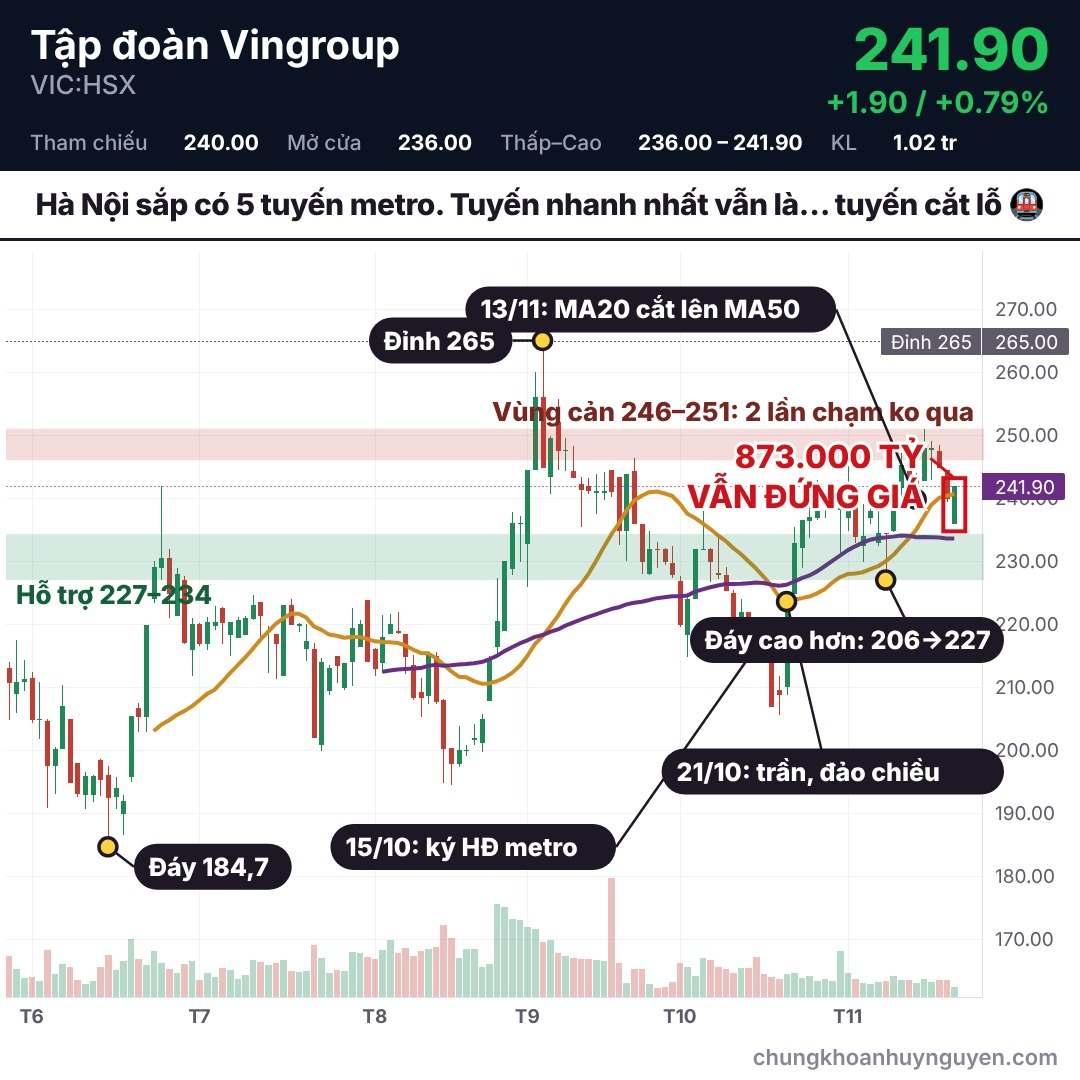
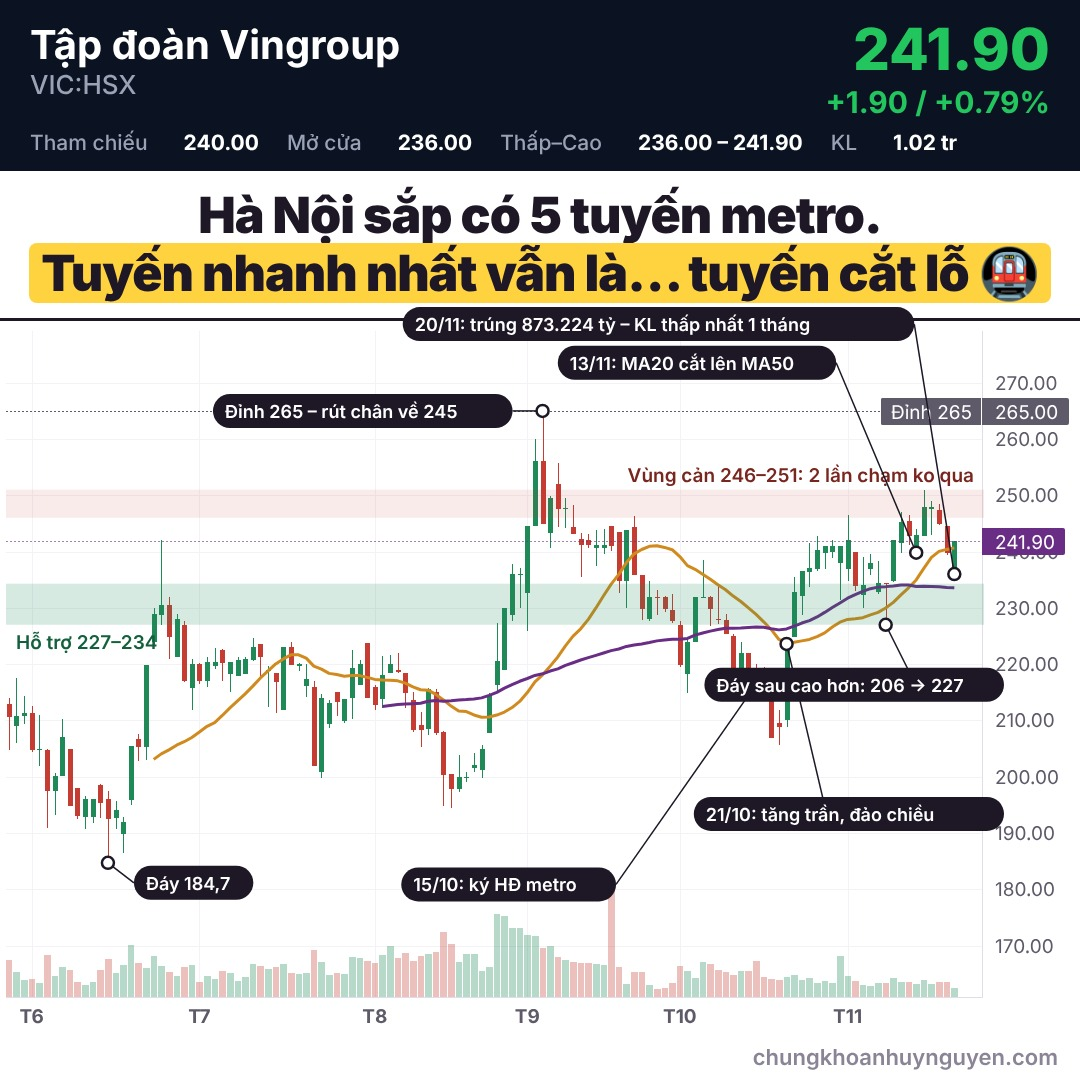
FB: hook VIC 2 dòng nổi bật, chart về cỡ cũ
Claude-Session: https://claude.ai/code/session_01HdwfrC464x83xNtDevUcBX

diff --git a/_fb/anh_lo/chart_web/VIC.html b/_fb/anh_lo/chart_web/VIC.html
@@ -6,7 +6,7 @@ body{margin:0;width:1080px;height:1080px;background:#fff;font-family:Inter,sans-
 .r1 b{font:700 40px Inter;display:block}.r1 span{font:500 26px Inter;color:#9aa3b5}
 .gp{text-align:right}.gp .g{font:800 58px/1 Inter}.gp .c{font:700 30px Inter;margin-top:6px}
 .st{display:flex;gap:28px;margin-top:10px;font:500 21px Inter;color:#9aa3b5}.st b{color:#fff;font-weight:700;margin-left:8px}
-.hook{background:#fff;border-bottom:3px solid #1d1726;padding:16px 22px;text-align:center;font:800 46px/1.18 Inter,'Noto Color Emoji';letter-spacing:-.5px}
+.hook{background:#fff;border-bottom:3px solid #1d1726;padding:16px 22px;text-align:center;font:900 60px/1.15 Inter,'Noto Color Emoji';letter-spacing:-1px}.hook span{background:#ffd23f;padding:0 12px;border-radius:8px;box-decoration-break:clone;-webkit-box-decoration-break:clone}
 #ch{position:absolute;left:6px;right:392px;top:VAR_TOP;bottom:40px}
 .lg{position:absolute;left:24px;top:calc(VAR_TOP + 8px);z-index:3;font:600 23px Inter;display:flex;gap:24px}
 #ov{position:absolute;left:0;top:0;width:1080px;height:1080px;z-index:4;pointer-events:none}
@@ -25,14 +25,14 @@ body{margin:0;width:1080px;height:1080px;background:#fff;font-family:Inter,sans-
 <div id="ch"></div><svg id="ov"></svg>
 <div class="br">chungkhoanhuynguyen.com</div>
 <script>
-var D={"ma": "VIC", "bars": [{"time": "2026-05-27", "open": 213.0, "high": 214.0, "low": 204.9, "close": 210.8, "volume": 4515900}, {"time": "2026-05-28", "open": 209.1, "high": 217.5, "low": 206.1, "close": 210.8, "volume": 3051200}, {"time": "2026-05-29", "open": 211.0, "high": 214.3, "low": 209.5, "close": 211.3, "volume": 2017000}, {"time": "2026-06-01", "open": 211.4, "high": 212.5, "low": 204.5, "close": 204.9, "volume": 2098200}, {"time": "2026-06-02", "open": 204.9, "high": 210.9, "low": 202.0, "close": 204.9, "volume": 1679300}, {"time": "2026-06-03", "open": 204.7, "high": 204.9, "low": 191.0, "close": 197.6, "volume": 5110300}, {"time": "2026-06-04", "open": 197.6, "high": 200.6, "low": 193.3, "close": 200.2, "volume": 2507200}, {"time": "2026-06-05", "open": 200.3, "high": 210.3, "low": 200.3, "close": 207.0, "volume": 3581100}, {"time": "2026-06-08", "open": 204.9, "high": 204.9, "low": 195.0, "close": 195.0, "volume": 3271900}, {"time": "2026-06-09", "open": 198.0, "high": 198.0, "low": 192.7, "close": 193.2, "volume": 1810400}, {"time": "2026-06-10", "open": 193.0, "high": 196.5, "low": 190.8, "close": 196.0, "volume": 1395000}, {"time": "2026-06-11", "open": 193.0, "high": 196.1, "low": 191.9, "close": 196.0, "volume": 1716200}, {"time": "2026-06-12", "open": 198.5, "high": 198.7, "low": 192.9, "close": 195.5, "volume": 3276100}, {"time": "2026-06-15", "open": 196.1, "high": 197.5, "low": 184.7, "close": 192.6, "volume": 4609900}, {"time": "2026-06-16", "open": 192.8, "high": 195.7, "low": 190.8, "close": 194.0, "volume": 2893300}, {"time": "2026-06-17", "open": 190.0, "high": 192.9, "low": 186.7, "close": 192.0, "volume": 3936100}, {"time": "2026-06-18", "open": 196.0, "high": 205.4, "low": 195.1, "close": 205.4, "volume": 6434200}, {"time": "2026-06-19", "open": 206.7, "high": 207.5, "low": 203.0, "close": 205.5, "volume": 4093100}, {"time": "2026-06-22", "open": 205.5, "high": 219.8, "low": 203.1, "close": 219.8, "volume": 3513400}, {"time": "2026-06-23", "open": 224.2, "high": 230.0, "low": 223.6, "close": 229.0, "volume": 5016500}, {"time": "2026-06-24", "open": 229.0, "high": 242.0, "low": 227.1, "close": 230.5, "volume": 3746800}, {"time": "2026-06-25", "open": 230.5, "high": 232.0, "low": 221.1, "close": 225.0, "volume": 3049700}, {"time": "2026-06-26", "open": 221.5, "high": 228.9, "low": 221.5, "close": 228.0, "volume": 2571200}, {"time": "2026-06-29", "open": 227.0, "high": 227.7, "low": 217.0, "close": 217.2, "volume": 3602500}, {"time": "2026-06-30", "open": 216.0, "high": 221.0, "low": 212.0, "close": 220.0, "volume": 3921200}, {"time": "2026-07-01", "open": 220.0, "high": 220.2, "low": 216.7, "close": 217.1, "volume": 1760600}, {"time": "2026-07-02", "open": 217.1, "high": 221.2, "low": 216.1, "close": 220.3, "volume": 2543800}, {"time": "2026-07-03", "open": 219.9, "high": 222.9, "low": 219.3, "close": 220.3, "volume": 2086300}, {"time": "2026-07-06", "open": 222.5, "high": 222.7, "low": 217.1, "close": 220.3, "volume": 3093000}, {"time": "2026-07-07", "open": 218.5, "high": 220.3, "low": 215.2, "close": 220.3, "volume": 2948800}, {"time": "2026-07-08", "open": 218.0, "high": 221.2, "low": 218.0, "close": 220.7, "volume": 1934000}, {"time": "2026-07-09", "open": 218.5, "high": 221.3, "low": 218.5, "close": 221.0, "volume": 2366400}, {"time": "2026-07-10", "open": 221.0, "high": 224.7, "low": 220.8, "close": 223.0, "volume": 3999100}, {"time": "2026-07-13", "open": 223.6, "high": 223.6, "low": 218.1, "close": 221.5, "volume": 3795000}, {"time": "2026-07-14", "open": 219.0, "high": 219.7, "low": 212.5, "close": 219.0, "volume": 3450700}, {"time": "2026-07-15", "open": 218.4, "high": 218.4, "low": 211.5, "close": 217.0, "volume": 3697900}, {"time": "2026-07-16", "open": 212.0, "high": 223.0, "low": 212.0, "close": 223.0, "volume": 4074700}, {"time": "2026-07-17", "open": 223.0, "high": 224.0, "low": 220.0, "close": 220.0, "volume": 2845200}, {"time": "2026-07-20", "open": 219.9, "high": 220.2, "low": 218.9, "close": 220.0, "volume": 2732800}, {"time": "2026-07-21", "open": 216.3, "high": 220.0, "low": 214.4, "close": 217.3, "volume": 2839700}, {"time": "2026-07-22", "open": 216.0, "high": 217.0, "low": 202.1, "close": 202.1, "volume": 5736200}, {"time": "2026-07-23", "open": 201.0, "high": 214.7, "low": 200.0, "close": 214.0, "volume": 4235400}, {"time": "2026-07-24", "open": 209.5, "high": 213.6, "low": 208.9, "close": 213.1, "volume": 2599400}, {"time": "2026-07-27", "open": 215.0, "high": 215.0, "low": 210.9, "close": 213.5, "volume": 2911700}, {"time": "2026-07-28", "open": 210.0, "high": 213.8, "low": 209.7, "close": 213.8, "volume": 2751800}, {"time": "2026-07-29", "open": 214.1, "high": 222.5, "low": 210.4, "close": 219.4, "volume": 4951600}, {"time": "2026-07-30", "open": 216.5, "high": 220.7, "low": 216.5, "close": 220.0, "volume": 4809100}, {"time": "2026-07-31", "open": 223.8, "high": 223.8, "low": 214.1, "close": 214.1, "volume": 4372800}, {"time": "2026-08-03", "open": 216.0, "high": 216.3, "low": 212.0, "close": 213.0, "volume": 4179900}, {"time": "2026-08-04", "open": 214.0, "high": 221.5, "low": 212.4, "close": 218.0, "volume": 5187600}, {"time": "2026-08-05", "open": 218.6, "high": 221.6, "low": 218.6, "close": 220.0, "volume": 6228400}, {"time": "2026-08-06", "open": 219.0, "high": 222.0, "low": 218.6, "close": 218.8, "volume": 4794300}, {"time": "2026-08-07", "open": 218.4, "high": 218.4, "low": 212.3, "close": 215.0, "volume": 5350500}, {"time": "2026-08-10", "open": 213.6, "high": 215.1, "low": 208.1, "close": 208.5, "volume": 4429400}, {"time": "2026-08-11", "open": 209.2, "high": 211.5, "low": 205.5, "close": 208.5, "volume": 4993200}, {"time": "2026-08-12", "open": 208.7, "high": 215.8, "low": 207.5, "close": 215.5, "volume": 5299800}, {"time": "2026-08-13", "open": 215.0, "high": 215.6, "low": 207.5, "close": 207.9, "volume": 5537700}, {"time": "2026-08-14", "open": 208.0, "high": 208.1, "low": 195.0, "close": 200.4, "volume": 7976400}, {"time": "2026-08-17", "open": 200.4, "high": 200.4, "low": 194.6, "close": 198.0, "volume": 6484400}, {"time": "2026-08-18", "open": 198.0, "high": 203.9, "low": 197.5, "close": 200.0, "volume": 4301900}, {"time": "2026-08-19", "open": 200.0, "high": 200.9, "low": 199.2, "close": 200.0, "volume": 5248400}, {"time": "2026-08-20", "open": 201.8, "high": 204.2, "low": 201.0, "close": 202.0, "volume": 5246400}, {"time": "2026-08-21", "open": 201.4, "high": 205.7, "low": 199.9, "close": 205.0, "volume": 3196900}, {"time": "2026-08-24", "open": 208.0, "high": 214.9, "low": 208.0, "close": 214.5, "volume": 3586200}, {"time": "2026-08-25", "open": 216.5, "high": 227.3, "low": 215.3, "close": 220.5, "volume": 10310200}, {"time": "2026-08-26", "open": 219.1, "high": 230.0, "low": 219.1, "close": 230.0, "volume": 9982600}, {"time": "2026-08-27", "open": 228.9, "high": 237.8, "low": 227.9, "close": 236.0, "volume": 8567700}, {"time": "2026-08-28", "open": 236.0, "high": 237.1, "low": 230.1, "close": 236.0, "volume": 8553100}, {"time": "2026-09-03", "open": 232.9, "high": 244.5, "low": 226.0, "close": 244.5, "volume": 7676800}, {"time": "2026-09-04", "open": 244.7, "high": 260.0, "low": 244.7, "close": 256.1, "volume": 7518600}, {"time": "2026-09-07", "open": 256.1, "high": 265.0, "low": 245.0, "close": 245.0, "volume": 6063900}, {"time": "2026-09-08", "open": 243.5, "high": 249.8, "low": 240.8, "close": 249.6, "volume": 6268500}, {"time": "2026-09-09", "open": 252.0, "high": 255.8, "low": 244.6, "close": 247.7, "volume": 4857800}, {"time": "2026-09-10", "open": 247.7, "high": 249.5, "low": 244.4, "close": 247.7, "volume": 4481800}, {"time": "2026-09-11", "open": 244.3, "high": 248.3, "low": 243.3, "close": 243.3, "volume": 4264000}, {"time": "2026-09-14", "open": 242.3, "high": 243.3, "low": 235.6, "close": 241.4, "volume": 4144700}, {"time": "2026-09-15", "open": 242.0, "high": 243.2, "low": 240.8, "close": 241.3, "volume": 4196100}, {"time": "2026-09-16", "open": 240.9, "high": 243.8, "low": 237.6, "close": 241.2, "volume": 4014000}, {"time": "2026-09-17", "open": 240.9, "high": 244.1, "low": 239.8, "close": 241.2, "volume": 3951500}, {"time": "2026-09-18", "open": 244.5, "high": 244.5, "low": 240.3, "close": 241.2, "volume": 13251500}, {"time": "2026-09-21", "open": 243.4, "high": 243.4, "low": 232.8, "close": 235.0, "volume": 3685300}, {"time": "2026-09-22", "open": 235.0, "high": 243.8, "low": 230.2, "close": 243.8, "volume": 1493400}, {"time": "2026-09-23", "open": 244.3, "high": 246.4, "low": 236.0, "close": 236.0, "volume": 3054200}, {"time": "2026-09-24", "open": 235.9, "high": 235.9, "low": 228.1, "close": 230.0, "volume": 2995500}, {"time": "2026-09-25", "open": 228.2, "high": 234.8, "low": 227.9, "close": 232.0, "volume": 1360800}, {"time": "2026-09-28", "open": 232.0, "high": 233.1, "low": 229.0, "close": 231.9, "volume": 891800}, {"time": "2026-09-29", "open": 232.0, "high": 232.1, "low": 229.5, "close": 230.0, "volume": 1056500}, {"time": "2026-09-30", "open": 229.7, "high": 232.4, "low": 227.5, "close": 227.9, "volume": 1584300}, {"time": "2026-10-01", "open": 226.9, "high": 227.7, "low": 219.7, "close": 220.0, "volume": 3716400}, {"time": "2026-10-02", "open": 218.5, "high": 224.9, "low": 215.0, "close": 224.0, "volume": 3199100}, {"time": "2026-10-05", "open": 224.1, "high": 232.0, "low": 224.1, "close": 232.0, "volume": 2293600}, {"time": "2026-10-06", "open": 232.0, "high": 238.5, "low": 231.9, "close": 232.0, "volume": 4217500}, {"time": "2026-10-07", "open": 232.0, "high": 232.1, "low": 226.9, "close": 230.0, "volume": 3995000}, {"time": "2026-10-08", "open": 228.1, "high": 234.0, "low": 227.3, "close": 228.0, "volume": 3302100}, {"time": "2026-10-09", "open": 227.8, "high": 229.0, "low": 225.5, "close": 225.5, "volume": 3042800}, {"time": "2026-10-12", "open": 225.0, "high": 225.4, "low": 218.6, "close": 219.0, "volume": 2630100}, {"time": "2026-10-13", "open": 218.0, "high": 224.0, "low": 215.3, "close": 222.0, "volume": 3133800}, {"time": "2026-10-14", "open": 222.0, "high": 222.0, "low": 217.3, "close": 218.4, "volume": 3116100}, {"time": "2026-10-15", "open": 218.4, "high": 220.0, "low": 216.4, "close": 218.0, "volume": 4348600}, {"time": "2026-10-16", "open": 218.3, "high": 219.5, "low": 214.5, "close": 215.0, "volume": 2419600}, {"time": "2026-10-19", "open": 219.0, "high": 219.0, "low": 207.0, "close": 207.0, "volume": 2096600}, {"time": "2026-10-20", "open": 209.6, "high": 211.8, "low": 205.8, "close": 209.0, "volume": 1952800}, {"time": "2026-10-21", "open": 210.2, "high": 223.6, "low": 209.0, "close": 223.6, "volume": 2434200}, {"time": "2026-10-22", "open": 225.0, "high": 235.5, "low": 225.0, "close": 232.9, "volume": 2592200}, {"time": "2026-10-23", "open": 232.3, "high": 236.5, "low": 229.0, "close": 236.5, "volume": 2020600}, {"time": "2026-10-26", "open": 236.5, "high": 241.5, "low": 233.9, "close": 237.0, "volume": 2218600}, {"time": "2026-10-27", "open": 237.0, "high": 242.8, "low": 236.7, "close": 240.2, "volume": 1676600}, {"time": "2026-10-28", "open": 239.9, "high": 241.0, "low": 237.0, "close": 241.0, "volume": 1868200}, {"time": "2026-10-29", "open": 240.1, "high": 242.0, "low": 239.0, "close": 241.0, "volume": 1680700}, {"time": "2026-10-30", "open": 238.2, "high": 241.0, "low": 231.5, "close": 241.0, "volume": 5049400}, {"time": "2026-11-02", "open": 237.0, "high": 246.5, "low": 235.0, "close": 242.0, "volume": 2527100}, {"time": "2026-11-03", "open": 240.0, "high": 240.0, "low": 233.1, "close": 234.0, "volume": 1909000}, {"time": "2026-11-04", "open": 232.5, "high": 239.0, "low": 230.1, "close": 234.0, "volume": 1431900}, {"time": "2026-11-05", "open": 237.0, "high": 239.5, "low": 236.0, "close": 238.0, "volume": 1305100}, {"time": "2026-11-06", "open": 233.0, "high": 238.4, "low": 232.6, "close": 234.5, "volume": 1570600}, {"time": "2026-11-09", "open": 234.5, "high": 234.5, "low": 227.0, "close": 234.4, "volume": 1644700}, {"time": "2026-11-10", "open": 235.0, "high": 242.0, "low": 234.8, "close": 242.0, "volume": 2218600}, {"time": "2026-11-11", "open": 241.7, "high": 247.1, "low": 240.0, "close": 245.2, "volume": 1749100}, {"time": "2026-11-12", "open": 245.5, "high": 246.5, "low": 241.3, "close": 243.0, "volume": 1790500}, {"time": "2026-11-13", "open": 240.1, "high": 244.0, "low": 239.8, "close": 243.0, "volume": 1487700}, {"time": "2026-11-16", "open": 242.9, "high": 251.0, "low": 242.9, "close": 248.0, "volume": 1949000}, {"time": "2026-11-17", "open": 247.8, "high": 249.0, "low": 243.1, "close": 248.0, "volume": 1550600}, {"time": "2026-11-18", "open": 247.4, "high": 248.5, "low": 244.9, "close": 245.0, "volume": 1799100}, {"time": "2026-11-19", "open": 244.5, "high": 244.5, "low": 239.5, "close": 240.0, "volume": 1778600}, {"time": "2026-11-20", "open": 236.0, "high": 241.9, "low": 236.0, "close": 241.9, "volume": 1015400}], "gia": 241.9, "ch": 1.9, "pct": 0.7916666666666665, "ten": "Tập đoàn Vingroup", "hook": "Hà Nội sắp có 5 tuyến metro. Tuyến nhanh nhất vẫn là… tuyến cắt lỗ 🚇", "muc": [{"gia": 265, "ten": "Đỉnh 265"}], "vung": [{"tren": 251, "duoi": 246, "ten": "Vùng cản 246–251: 2 lần chạm ko qua"}, {"tren": 234.3, "duoi": 227, "ten": "Hỗ trợ 227–234", "mau": "rgba(31,138,87,.18)", "mauChu": "#14603c", "trai": 1}], "fib": null, "emo": null, "diem": [{"t": "2026-06-15", "g": 184.7, "dx": 26, "dy": 20, "chu": "Đáy 184,7"}, {"t": "2026-09-07", "g": 265, "dx": -30, "dy": 0, "chu": "Đỉnh 265"}, {"t": "2026-10-15", "g": 216.4, "dx": -140, "dy": 200, "chu": "15/10: ký HĐ metro"}, {"t": "2026-10-21", "g": 223.6, "dx": 40, "dy": 170, "chu": "21/10: trần, đảo chiều"}, {"t": "2026-11-09", "g": 227, "dx": 30, "dy": 60, "chu": "Đáy cao hơn: 206→227"}, {"t": "2026-11-13", "g": 239.8, "dx": -80, "dy": -190, "chu": "13/11: MA20 cắt lên MA50"}], "pn": null, "kq": null, "hop": [{"t": "2026-11-20", "dx": -30, "dy": -20, "chu": ["873.000 TỶ", "VẪN ĐỨNG GIÁ"]}]};var UP='#1f8a57',DN='#c43c32';
+var D={"ma": "VIC", "bars": [{"time": "2026-05-27", "open": 213.0, "high": 214.0, "low": 204.9, "close": 210.8, "volume": 4515900}, {"time": "2026-05-28", "open": 209.1, "high": 217.5, "low": 206.1, "close": 210.8, "volume": 3051200}, {"time": "2026-05-29", "open": 211.0, "high": 214.3, "low": 209.5, "close": 211.3, "volume": 2017000}, {"time": "2026-06-01", "open": 211.4, "high": 212.5, "low": 204.5, "close": 204.9, "volume": 2098200}, {"time": "2026-06-02", "open": 204.9, "high": 210.9, "low": 202.0, "close": 204.9, "volume": 1679300}, {"time": "2026-06-03", "open": 204.7, "high": 204.9, "low": 191.0, "close": 197.6, "volume": 5110300}, {"time": "2026-06-04", "open": 197.6, "high": 200.6, "low": 193.3, "close": 200.2, "volume": 2507200}, {"time": "2026-06-05", "open": 200.3, "high": 210.3, "low": 200.3, "close": 207.0, "volume": 3581100}, {"time": "2026-06-08", "open": 204.9, "high": 204.9, "low": 195.0, "close": 195.0, "volume": 3271900}, {"time": "2026-06-09", "open": 198.0, "high": 198.0, "low": 192.7, "close": 193.2, "volume": 1810400}, {"time": "2026-06-10", "open": 193.0, "high": 196.5, "low": 190.8, "close": 196.0, "volume": 1395000}, {"time": "2026-06-11", "open": 193.0, "high": 196.1, "low": 191.9, "close": 196.0, "volume": 1716200}, {"time": "2026-06-12", "open": 198.5, "high": 198.7, "low": 192.9, "close": 195.5, "volume": 3276100}, {"time": "2026-06-15", "open": 196.1, "high": 197.5, "low": 184.7, "close": 192.6, "volume": 4609900}, {"time": "2026-06-16", "open": 192.8, "high": 195.7, "low": 190.8, "close": 194.0, "volume": 2893300}, {"time": "2026-06-17", "open": 190.0, "high": 192.9, "low": 186.7, "close": 192.0, "volume": 3936100}, {"time": "2026-06-18", "open": 196.0, "high": 205.4, "low": 195.1, "close": 205.4, "volume": 6434200}, {"time": "2026-06-19", "open": 206.7, "high": 207.5, "low": 203.0, "close": 205.5, "volume": 4093100}, {"time": "2026-06-22", "open": 205.5, "high": 219.8, "low": 203.1, "close": 219.8, "volume": 3513400}, {"time": "2026-06-23", "open": 224.2, "high": 230.0, "low": 223.6, "close": 229.0, "volume": 5016500}, {"time": "2026-06-24", "open": 229.0, "high": 242.0, "low": 227.1, "close": 230.5, "volume": 3746800}, {"time": "2026-06-25", "open": 230.5, "high": 232.0, "low": 221.1, "close": 225.0, "volume": 3049700}, {"time": "2026-06-26", "open": 221.5, "high": 228.9, "low": 221.5, "close": 228.0, "volume": 2571200}, {"time": "2026-06-29", "open": 227.0, "high": 227.7, "low": 217.0, "close": 217.2, "volume": 3602500}, {"time": "2026-06-30", "open": 216.0, "high": 221.0, "low": 212.0, "close": 220.0, "volume": 3921200}, {"time": "2026-07-01", "open": 220.0, "high": 220.2, "low": 216.7, "close": 217.1, "volume": 1760600}, {"time": "2026-07-02", "open": 217.1, "high": 221.2, "low": 216.1, "close": 220.3, "volume": 2543800}, {"time": "2026-07-03", "open": 219.9, "high": 222.9, "low": 219.3, "close": 220.3, "volume": 2086300}, {"time": "2026-07-06", "open": 222.5, "high": 222.7, "low": 217.1, "close": 220.3, "volume": 3093000}, {"time": "2026-07-07", "open": 218.5, "high": 220.3, "low": 215.2, "close": 220.3, "volume": 2948800}, {"time": "2026-07-08", "open": 218.0, "high": 221.2, "low": 218.0, "close": 220.7, "volume": 1934000}, {"time": "2026-07-09", "open": 218.5, "high": 221.3, "low": 218.5, "close": 221.0, "volume": 2366400}, {"time": "2026-07-10", "open": 221.0, "high": 224.7, "low": 220.8, "close": 223.0, "volume": 3999100}, {"time": "2026-07-13", "open": 223.6, "high": 223.6, "low": 218.1, "close": 221.5, "volume": 3795000}, {"time": "2026-07-14", "open": 219.0, "high": 219.7, "low": 212.5, "close": 219.0, "volume": 3450700}, {"time": "2026-07-15", "open": 218.4, "high": 218.4, "low": 211.5, "close": 217.0, "volume": 3697900}, {"time": "2026-07-16", "open": 212.0, "high": 223.0, "low": 212.0, "close": 223.0, "volume": 4074700}, {"time": "2026-07-17", "open": 223.0, "high": 224.0, "low": 220.0, "close": 220.0, "volume": 2845200}, {"time": "2026-07-20", "open": 219.9, "high": 220.2, "low": 218.9, "close": 220.0, "volume": 2732800}, {"time": "2026-07-21", "open": 216.3, "high": 220.0, "low": 214.4, "close": 217.3, "volume": 2839700}, {"time": "2026-07-22", "open": 216.0, "high": 217.0, "low": 202.1, "close": 202.1, "volume": 5736200}, {"time": "2026-07-23", "open": 201.0, "high": 214.7, "low": 200.0, "close": 214.0, "volume": 4235400}, {"time": "2026-07-24", "open": 209.5, "high": 213.6, "low": 208.9, "close": 213.1, "volume": 2599400}, {"time": "2026-07-27", "open": 215.0, "high": 215.0, "low": 210.9, "close": 213.5, "volume": 2911700}, {"time": "2026-07-28", "open": 210.0, "high": 213.8, "low": 209.7, "close": 213.8, "volume": 2751800}, {"time": "2026-07-29", "open": 214.1, "high": 222.5, "low": 210.4, "close": 219.4, "volume": 4951600}, {"time": "2026-07-30", "open": 216.5, "high": 220.7, "low": 216.5, "close": 220.0, "volume": 4809100}, {"time": "2026-07-31", "open": 223.8, "high": 223.8, "low": 214.1, "close": 214.1, "volume": 4372800}, {"time": "2026-08-03", "open": 216.0, "high": 216.3, "low": 212.0, "close": 213.0, "volume": 4179900}, {"time": "2026-08-04", "open": 214.0, "high": 221.5, "low": 212.4, "close": 218.0, "volume": 5187600}, {"time": "2026-08-05", "open": 218.6, "high": 221.6, "low": 218.6, "close": 220.0, "volume": 6228400}, {"time": "2026-08-06", "open": 219.0, "high": 222.0, "low": 218.6, "close": 218.8, "volume": 4794300}, {"time": "2026-08-07", "open": 218.4, "high": 218.4, "low": 212.3, "close": 215.0, "volume": 5350500}, {"time": "2026-08-10", "open": 213.6, "high": 215.1, "low": 208.1, "close": 208.5, "volume": 4429400}, {"time": "2026-08-11", "open": 209.2, "high": 211.5, "low": 205.5, "close": 208.5, "volume": 4993200}, {"time": "2026-08-12", "open": 208.7, "high": 215.8, "low": 207.5, "close": 215.5, "volume": 5299800}, {"time": "2026-08-13", "open": 215.0, "high": 215.6, "low": 207.5, "close": 207.9, "volume": 5537700}, {"time": "2026-08-14", "open": 208.0, "high": 208.1, "low": 195.0, "close": 200.4, "volume": 7976400}, {"time": "2026-08-17", "open": 200.4, "high": 200.4, "low": 194.6, "close": 198.0, "volume": 6484400}, {"time": "2026-08-18", "open": 198.0, "high": 203.9, "low": 197.5, "close": 200.0, "volume": 4301900}, {"time": "2026-08-19", "open": 200.0, "high": 200.9, "low": 199.2, "close": 200.0, "volume": 5248400}, {"time": "2026-08-20", "open": 201.8, "high": 204.2, "low": 201.0, "close": 202.0, "volume": 5246400}, {"time": "2026-08-21", "open": 201.4, "high": 205.7, "low": 199.9, "close": 205.0, "volume": 3196900}, {"time": "2026-08-24", "open": 208.0, "high": 214.9, "low": 208.0, "close": 214.5, "volume": 3586200}, {"time": "2026-08-25", "open": 216.5, "high": 227.3, "low": 215.3, "close": 220.5, "volume": 10310200}, {"time": "2026-08-26", "open": 219.1, "high": 230.0, "low": 219.1, "close": 230.0, "volume": 9982600}, {"time": "2026-08-27", "open": 228.9, "high": 237.8, "low": 227.9, "close": 236.0, "volume": 8567700}, {"time": "2026-08-28", "open": 236.0, "high": 237.1, "low": 230.1, "close": 236.0, "volume": 8553100}, {"time": "2026-09-03", "open": 232.9, "high": 244.5, "low": 226.0, "close": 244.5, "volume": 7676800}, {"time": "2026-09-04", "open": 244.7, "high": 260.0, "low": 244.7, "close": 256.1, "volume": 7518600}, {"time": "2026-09-07", "open": 256.1, "high": 265.0, "low": 245.0, "close": 245.0, "volume": 6063900}, {"time": "2026-09-08", "open": 243.5, "high": 249.8, "low": 240.8, "close": 249.6, "volume": 6268500}, {"time": "2026-09-09", "open": 252.0, "high": 255.8, "low": 244.6, "close": 247.7, "volume": 4857800}, {"time": "2026-09-10", "open": 247.7, "high": 249.5, "low": 244.4, "close": 247.7, "volume": 4481800}, {"time": "2026-09-11", "open": 244.3, "high": 248.3, "low": 243.3, "close": 243.3, "volume": 4264000}, {"time": "2026-09-14", "open": 242.3, "high": 243.3, "low": 235.6, "close": 241.4, "volume": 4144700}, {"time": "2026-09-15", "open": 242.0, "high": 243.2, "low": 240.8, "close": 241.3, "volume": 4196100}, {"time": "2026-09-16", "open": 240.9, "high": 243.8, "low": 237.6, "close": 241.2, "volume": 4014000}, {"time": "2026-09-17", "open": 240.9, "high": 244.1, "low": 239.8, "close": 241.2, "volume": 3951500}, {"time": "2026-09-18", "open": 244.5, "high": 244.5, "low": 240.3, "close": 241.2, "volume": 13251500}, {"time": "2026-09-21", "open": 243.4, "high": 243.4, "low": 232.8, "close": 235.0, "volume": 3685300}, {"time": "2026-09-22", "open": 235.0, "high": 243.8, "low": 230.2, "close": 243.8, "volume": 1493400}, {"time": "2026-09-23", "open": 244.3, "high": 246.4, "low": 236.0, "close": 236.0, "volume": 3054200}, {"time": "2026-09-24", "open": 235.9, "high": 235.9, "low": 228.1, "close": 230.0, "volume": 2995500}, {"time": "2026-09-25", "open": 228.2, "high": 234.8, "low": 227.9, "close": 232.0, "volume": 1360800}, {"time": "2026-09-28", "open": 232.0, "high": 233.1, "low": 229.0, "close": 231.9, "volume": 891800}, {"time": "2026-09-29", "open": 232.0, "high": 232.1, "low": 229.5, "close": 230.0, "volume": 1056500}, {"time": "2026-09-30", "open": 229.7, "high": 232.4, "low": 227.5, "close": 227.9, "volume": 1584300}, {"time": "2026-10-01", "open": 226.9, "high": 227.7, "low": 219.7, "close": 220.0, "volume": 3716400}, {"time": "2026-10-02", "open": 218.5, "high": 224.9, "low": 215.0, "close": 224.0, "volume": 3199100}, {"time": "2026-10-05", "open": 224.1, "high": 232.0, "low": 224.1, "close": 232.0, "volume": 2293600}, {"time": "2026-10-06", "open": 232.0, "high": 238.5, "low": 231.9, "close": 232.0, "volume": 4217500}, {"time": "2026-10-07", "open": 232.0, "high": 232.1, "low": 226.9, "close": 230.0, "volume": 3995000}, {"time": "2026-10-08", "open": 228.1, "high": 234.0, "low": 227.3, "close": 228.0, "volume": 3302100}, {"time": "2026-10-09", "open": 227.8, "high": 229.0, "low": 225.5, "close": 225.5, "volume": 3042800}, {"time": "2026-10-12", "open": 225.0, "high": 225.4, "low": 218.6, "close": 219.0, "volume": 2630100}, {"time": "2026-10-13", "open": 218.0, "high": 224.0, "low": 215.3, "close": 222.0, "volume": 3133800}, {"time": "2026-10-14", "open": 222.0, "high": 222.0, "low": 217.3, "close": 218.4, "volume": 3116100}, {"time": "2026-10-15", "open": 218.4, "high": 220.0, "low": 216.4, "close": 218.0, "volume": 4348600}, {"time": "2026-10-16", "open": 218.3, "high": 219.5, "low": 214.5, "close": 215.0, "volume": 2419600}, {"time": "2026-10-19", "open": 219.0, "high": 219.0, "low": 207.0, "close": 207.0, "volume": 2096600}, {"time": "2026-10-20", "open": 209.6, "high": 211.8, "low": 205.8, "close": 209.0, "volume": 1952800}, {"time": "2026-10-21", "open": 210.2, "high": 223.6, "low": 209.0, "close": 223.6, "volume": 2434200}, {"time": "2026-10-22", "open": 225.0, "high": 235.5, "low": 225.0, "close": 232.9, "volume": 2592200}, {"time": "2026-10-23", "open": 232.3, "high": 236.5, "low": 229.0, "close": 236.5, "volume": 2020600}, {"time": "2026-10-26", "open": 236.5, "high": 241.5, "low": 233.9, "close": 237.0, "volume": 2218600}, {"time": "2026-10-27", "open": 237.0, "high": 242.8, "low": 236.7, "close": 240.2, "volume": 1676600}, {"time": "2026-10-28", "open": 239.9, "high": 241.0, "low": 237.0, "close": 241.0, "volume": 1868200}, {"time": "2026-10-29", "open": 240.1, "high": 242.0, "low": 239.0, "close": 241.0, "volume": 1680700}, {"time": "2026-10-30", "open": 238.2, "high": 241.0, "low": 231.5, "close": 241.0, "volume": 5049400}, {"time": "2026-11-02", "open": 237.0, "high": 246.5, "low": 235.0, "close": 242.0, "volume": 2527100}, {"time": "2026-11-03", "open": 240.0, "high": 240.0, "low": 233.1, "close": 234.0, "volume": 1909000}, {"time": "2026-11-04", "open": 232.5, "high": 239.0, "low": 230.1, "close": 234.0, "volume": 1431900}, {"time": "2026-11-05", "open": 237.0, "high": 239.5, "low": 236.0, "close": 238.0, "volume": 1305100}, {"time": "2026-11-06", "open": 233.0, "high": 238.4, "low": 232.6, "close": 234.5, "volume": 1570600}, {"time": "2026-11-09", "open": 234.5, "high": 234.5, "low": 227.0, "close": 234.4, "volume": 1644700}, {"time": "2026-11-10", "open": 235.0, "high": 242.0, "low": 234.8, "close": 242.0, "volume": 2218600}, {"time": "2026-11-11", "open": 241.7, "high": 247.1, "low": 240.0, "close": 245.2, "volume": 1749100}, {"time": "2026-11-12", "open": 245.5, "high": 246.5, "low": 241.3, "close": 243.0, "volume": 1790500}, {"time": "2026-11-13", "open": 240.1, "high": 244.0, "low": 239.8, "close": 243.0, "volume": 1487700}, {"time": "2026-11-16", "open": 242.9, "high": 251.0, "low": 242.9, "close": 248.0, "volume": 1949000}, {"time": "2026-11-17", "open": 247.8, "high": 249.0, "low": 243.1, "close": 248.0, "volume": 1550600}, {"time": "2026-11-18", "open": 247.4, "high": 248.5, "low": 244.9, "close": 245.0, "volume": 1799100}, {"time": "2026-11-19", "open": 244.5, "high": 244.5, "low": 239.5, "close": 240.0, "volume": 1778600}, {"time": "2026-11-20", "open": 236.0, "high": 241.9, "low": 236.0, "close": 241.9, "volume": 1015400}], "gia": 241.9, "ch": 1.9, "pct": 0.7916666666666665, "ten": "Tập đoàn Vingroup", "hook": "Hà Nội sắp có 5 tuyến metro.|Tuyến nhanh nhất vẫn là… tuyến cắt lỗ 🚇", "muc": [{"gia": 265, "ten": "Đỉnh 265"}], "vung": [{"tren": 251, "duoi": 246, "ten": "Vùng cản 246–251: 2 lần chạm ko qua"}, {"tren": 234.3, "duoi": 227, "ten": "Hỗ trợ 227–234", "mau": "rgba(31,138,87,.18)", "mauChu": "#14603c", "trai": 1}], "fib": null, "emo": null, "diem": [{"t": "2026-06-15", "g": 184.7, "dx": 26, "dy": 20, "chu": "Đáy 184,7"}, {"t": "2026-09-07", "g": 265, "dx": -30, "dy": 0, "chu": "Đỉnh 265 – rút chân về 245"}, {"t": "2026-10-15", "g": 216.4, "dx": -140, "dy": 200, "chu": "15/10: ký HĐ metro"}, {"t": "2026-10-21", "g": 223.6, "dx": 40, "dy": 170, "chu": "21/10: tăng trần, đảo chiều"}, {"t": "2026-11-09", "g": 227, "dx": 30, "dy": 60, "chu": "Đáy sau cao hơn: 206 → 227"}, {"t": "2026-11-13", "g": 239.8, "dx": -80, "dy": -190, "chu": "13/11: MA20 cắt lên MA50"}, {"t": "2026-11-20", "g": 236, "dx": -40, "dy": -250, "chu": "20/11: trúng 873.224 tỷ – KL thấp nhất 1 tháng"}], "pn": null, "kq": null};var UP='#1f8a57',DN='#c43c32';
 var top0=document.querySelector('.top').offsetHeight+document.querySelector('.hook').offsetHeight;
 var up=D.ch>=0,col=up?'#22c55e':'#f05252';
 ten.textContent=D.ten;sym.textContent=D.ma+':HSX';gia.textContent=D.gia.toFixed(2);gia.style.color=col;
 chg.textContent=(up?'+':'')+D.ch.toFixed(2)+' / '+(up?'+':'')+D.pct.toFixed(2)+'%';chg.style.color=col;
 var L=D.bars[D.bars.length-1],P=D.bars[D.bars.length-2];
 st.innerHTML='Tham chiếu<b>'+P.close.toFixed(2)+'</b>  Mở cửa<b>'+L.open.toFixed(2)+'</b>  Thấp–Cao<b>'+L.low.toFixed(2)+' – '+L.high.toFixed(2)+'</b>  KL<b>'+(L.volume/1e6).toFixed(2)+' tr</b>';
-hook.textContent=D.hook;var fs=46;while(hook.scrollHeight>80&&fs>30){fs-=2;hook.style.fontSize=fs+'px'}
+var hp=D.hook.split('|');hook.innerHTML=hp[0]+(hp[1]?'<br><span>'+hp[1]+'</span>':'');var fs=60;while(hook.scrollHeight>(hp[1]?190:100)&&fs>34){fs-=2;hook.style.fontSize=fs+'px'}
 function sma(c,n){return c.map(function(_,i){if(i<n-1)return null;var s=0;for(var j=i-n+1;j<=i;j++)s+=c[j];return s/n})}
 var el=document.getElementById('ch');if(!D.pn)el.style.right='6px';var t0=document.querySelector('.top').offsetHeight+document.querySelector('.hook').offsetHeight+10;
 el.style.top=t0+'px';document.querySelector('.lg').style.top=(t0+8)+'px';
@@ -48,7 +48,7 @@ k.setData(b.map(function(x){return{time:x.time,open:x.open,high:x.high,low:x.low
 var v=ch.addSeries(LightweightCharts.HistogramSeries,{priceFormat:{type:'volume'},priceScaleId:'vol',lastValueVisible:false,priceLineVisible:false});
 v.priceScale().applyOptions({scaleMargins:{top:.84,bottom:0},visible:false});
 v.setData(b.map(function(x){return{time:x.time,value:x.volume,color:x.close>=x.open?'rgba(31,138,87,.32)':'rgba(196,60,50,.32)'}}));
-[[20,'#d08a1e','l20'],[50,'#6a2d86','l50']].forEach(function(q){var m=sma(c,q[0]);var s=ch.addSeries(LightweightCharts.LineSeries,{color:q[1],lineWidth:4,priceLineVisible:false,lastValueVisible:false,crosshairMarkerVisible:false});
+[[20,'#d08a1e','l20'],[50,'#6a2d86','l50']].forEach(function(q){var m=sma(c,q[0]);var s=ch.addSeries(LightweightCharts.LineSeries,{color:q[1],lineWidth:3,priceLineVisible:false,lastValueVisible:false,crosshairMarkerVisible:false});
  s.setData(b.map(function(x,i){return m[i]==null?{time:x.time}:{time:x.time,value:m[i]}}));document.getElementById(q[2]).textContent='MA'+q[0]+' '+m[m.length-1].toFixed(2)});
 (D.muc||[]).forEach(function(m){k.createPriceLine({price:m.gia,color:'#5f5a69',lineWidth:1,lineStyle:2,axisLabelVisible:true,title:m.ten})});
 ch.timeScale().fitContent();
@@ -57,15 +57,15 @@ setTimeout(function(){
  h+='<defs><marker id="a" markerWidth="8" markerHeight="8" refX="6" refY="4" orient="auto"><path d="M0,0 L8,4 L0,8 z" fill="#e3242b"/></marker></defs>';
  var W=el.clientWidth-90;
  (D.vung||[]).forEach(function(z){var y1=k.priceToCoordinate(z.tren)+oy,y2=k.priceToCoordinate(z.duoi)+oy;
-  h+='<rect x="'+ox+'" y="'+y1+'" width="'+W+'" height="'+(y2-y1)+'" fill="'+(z.mau||'rgba(196,60,50,.18)')+'"/>';
-  h+='<text x="'+(z.trai?ox+10:ox+W-10)+'" y="'+(z.trai?y2+24:y1-8)+'" text-anchor="'+(z.trai?'start':'end')+'" font-family="Inter" font-weight="800" font-size="26" fill="'+(z.mauChu||'#7a2620')+'">'+z.ten+'</text>'});
+  h+='<rect x="'+ox+'" y="'+y1+'" width="'+W+'" height="'+(y2-y1)+'" fill="'+(z.mau||'rgba(196,60,50,.10)')+'"/>';
+  h+='<text x="'+(z.trai?ox+10:ox+W-10)+'" y="'+(z.trai?y2+24:y1-8)+'" text-anchor="'+(z.trai?'start':'end')+'" font-family="Inter" font-weight="600" font-size="19" fill="'+(z.mauChu||'#7a2620')+'">'+z.ten+'</text>'});
  (D.diem||[]).forEach(function(p){var x=ch.timeScale().timeToCoordinate(p.t)+ox,y=k.priceToCoordinate(p.g)+oy;
-  var lx=x+p.dx,ly=y+p.dy,w=p.chu.length*14.2+30;
-  h+='<line x1="'+x+'" y1="'+y+'" x2="'+lx+'" y2="'+ly+'" stroke="#1d1726" stroke-width="2.5"/>';
-  h+='<circle cx="'+x+'" cy="'+y+'" r="9" fill="#ffd23f" stroke="#1d1726" stroke-width="3.5"/>';
+  var lx=x+p.dx,ly=y+p.dy,w=p.chu.length*10.6+24;
+  h+='<line x1="'+x+'" y1="'+y+'" x2="'+lx+'" y2="'+ly+'" stroke="#1d1726" stroke-width="1.5"/>';
+  h+='<circle cx="'+x+'" cy="'+y+'" r="6" fill="#fff" stroke="#1d1726" stroke-width="2.5"/>';
   var bx=p.dx>=0?lx:lx-w;var mx=ox+el.clientWidth-70-w;if(bx>mx)bx=mx;if(bx<ox+4)bx=ox+4;
-  h+='<rect x="'+bx+'" y="'+(ly-23)+'" width="'+w+'" height="46" rx="23" fill="#1d1726"/>';
-  h+='<text x="'+(bx+15)+'" y="'+(ly+9)+'" font-family="Inter" font-weight="800" font-size="25" fill="#fff">'+p.chu+'</text>'});
+  h+='<rect x="'+bx+'" y="'+(ly-17)+'" width="'+w+'" height="34" rx="17" fill="#1d1726"/>';
+  h+='<text x="'+(bx+12)+'" y="'+(ly+7)+'" font-family="Inter" font-weight="600" font-size="18" fill="#fff">'+p.chu+'</text>'});
  var P=D.pn,Q=D.kq;
  if(P){pn.innerHTML='<h4>Góc nhìn kỹ thuật</h4>'+P.dong.map(function(r){return '<div><b>'+r[0]+'</b><span>'+r[1]+'</span></div>'}).join('');pn.style.left='706px';pn.style.top=(oy)+'px'}
  if(Q){var vc={neg:['#b42318','#fde7e5','#f6c1bc','Tiêu cực'],mid:['#8a6410','#fbf1d9','#ecd59c','Trung tính'],pos:['#0f7a43','#e3f7ea','#b7e6c8','Tích cực']}[Q.v];
@@ -79,7 +79,7 @@ setTimeout(function(){
   p.chu.forEach(function(l,i){h+='<text x="'+tx+'" y="'+(ty+10+i*40)+'" text-anchor="'+(p.dx>0?'start':'end')+'" font-family="Inter" font-weight="800" font-size="32" fill="#d1121b" stroke="#fff" stroke-width="6" paint-order="stroke">'+l+'</text>'})});
  if(D.fib){var a=D.fib[0],z=D.fib[1];[0.236,0.382,0.5,0.618].forEach(function(r){var g=z+(a-z)*r,y=k.priceToCoordinate(g)+oy;
   h+='<line x1="'+ox+'" y1="'+y+'" x2="'+(ox+el.clientWidth-80)+'" y2="'+y+'" stroke="#8a8496" stroke-width="1.2" stroke-dasharray="6 5"/>';
-  h+='<text x="'+(ox+8)+'" y="'+(y-6)+'" font-family="Inter" font-weight="700" font-size="20" fill="#4a4555">Fibo '+r.toFixed(3).replace(/0+$/,'').replace('.',',')+' · '+g.toFixed(1).replace('.',',')+'</text>'})}
+  h+='<text x="'+(ox+8)+'" y="'+(y-6)+'" font-family="Inter" font-weight="600" font-size="17" fill="#6f6a7a">Fibo '+r.toFixed(3).replace(/0+$/,'').replace('.',',')+' · '+g.toFixed(1).replace('.',',')+'</text>'})}
  if(D.emo){h+='<text x="'+D.emo[1]+'" y="'+D.emo[2]+'" font-size="170" font-family="Noto Color Emoji">'+D.emo[0]+'</text>'}
  ov.innerHTML=h;document.title='xong'},500);
 </script></body></html>

diff --git a/_fb/anh_lo/chart_web/tpl.html b/_fb/anh_lo/chart_web/tpl.html
@@ -6,7 +6,7 @@ body{margin:0;width:1080px;height:1080px;background:#fff;font-family:Inter,sans-
 .r1 b{font:700 40px Inter;display:block}.r1 span{font:500 26px Inter;color:#9aa3b5}
 .gp{text-align:right}.gp .g{font:800 58px/1 Inter}.gp .c{font:700 30px Inter;margin-top:6px}
 .st{display:flex;gap:28px;margin-top:10px;font:500 21px Inter;color:#9aa3b5}.st b{color:#fff;font-weight:700;margin-left:8px}
-.hook{background:#fff;border-bottom:3px solid #1d1726;padding:16px 22px;text-align:center;font:800 46px/1.18 Inter,'Noto Color Emoji';letter-spacing:-.5px}
+.hook{background:#fff;border-bottom:3px solid #1d1726;padding:16px 22px;text-align:center;font:900 60px/1.15 Inter,'Noto Color Emoji';letter-spacing:-1px}.hook span{background:#ffd23f;padding:0 12px;border-radius:8px;box-decoration-break:clone;-webkit-box-decoration-break:clone}
 #ch{position:absolute;left:6px;right:392px;top:VAR_TOP;bottom:40px}
 .lg{position:absolute;left:24px;top:calc(VAR_TOP + 8px);z-index:3;font:600 23px Inter;display:flex;gap:24px}
 #ov{position:absolute;left:0;top:0;width:1080px;height:1080px;z-index:4;pointer-events:none}
@@ -32,7 +32,7 @@ ten.textContent=D.ten;sym.textContent=D.ma+':HSX';gia.textContent=D.gia.toFixed(
 chg.textContent=(up?'+':'')+D.ch.toFixed(2)+' / '+(up?'+':'')+D.pct.toFixed(2)+'%';chg.style.color=col;
 var L=D.bars[D.bars.length-1],P=D.bars[D.bars.length-2];
 st.innerHTML='Tham chiếu<b>'+P.close.toFixed(2)+'</b>  Mở cửa<b>'+L.open.toFixed(2)+'</b>  Thấp–Cao<b>'+L.low.toFixed(2)+' – '+L.high.toFixed(2)+'</b>  KL<b>'+(L.volume/1e6).toFixed(2)+' tr</b>';
-hook.textContent=D.hook;var fs=46;while(hook.scrollHeight>80&&fs>30){fs-=2;hook.style.fontSize=fs+'px'}
+var hp=D.hook.split('|');hook.innerHTML=hp[0]+(hp[1]?'<br><span>'+hp[1]+'</span>':'');var fs=60;while(hook.scrollHeight>(hp[1]?190:100)&&fs>34){fs-=2;hook.style.fontSize=fs+'px'}
 function sma(c,n){return c.map(function(_,i){if(i<n-1)return null;var s=0;for(var j=i-n+1;j<=i;j++)s+=c[j];return s/n})}
 var el=document.getElementById('ch');if(!D.pn)el.style.right='6px';var t0=document.querySelector('.top').offsetHeight+document.querySelector('.hook').offsetHeight+10;
 el.style.top=t0+'px';document.querySelector('.lg').style.top=(t0+8)+'px';
@@ -48,7 +48,7 @@ k.setData(b.map(function(x){return{time:x.time,open:x.open,high:x.high,low:x.low
 var v=ch.addSeries(LightweightCharts.HistogramSeries,{priceFormat:{type:'volume'},priceScaleId:'vol',lastValueVisible:false,priceLineVisible:false});
 v.priceScale().applyOptions({scaleMargins:{top:.84,bottom:0},visible:false});
 v.setData(b.map(function(x){return{time:x.time,value:x.volume,color:x.close>=x.open?'rgba(31,138,87,.32)':'rgba(196,60,50,.32)'}}));
-[[20,'#d08a1e','l20'],[50,'#6a2d86','l50']].forEach(function(q){var m=sma(c,q[0]);var s=ch.addSeries(LightweightCharts.LineSeries,{color:q[1],lineWidth:4,priceLineVisible:false,lastValueVisible:false,crosshairMarkerVisible:false});
+[[20,'#d08a1e','l20'],[50,'#6a2d86','l50']].forEach(function(q){var m=sma(c,q[0]);var s=ch.addSeries(LightweightCharts.LineSeries,{color:q[1],lineWidth:3,priceLineVisible:false,lastValueVisible:false,crosshairMarkerVisible:false});
  s.setData(b.map(function(x,i){return m[i]==null?{time:x.time}:{time:x.time,value:m[i]}}));document.getElementById(q[2]).textContent='MA'+q[0]+' '+m[m.length-1].toFixed(2)});
 (D.muc||[]).forEach(function(m){k.createPriceLine({price:m.gia,color:'#5f5a69',lineWidth:1,lineStyle:2,axisLabelVisible:true,title:m.ten})});
 ch.timeScale().fitContent();
@@ -57,15 +57,15 @@ setTimeout(function(){
  h+='<defs><marker id="a" markerWidth="8" markerHeight="8" refX="6" refY="4" orient="auto"><path d="M0,0 L8,4 L0,8 z" fill="#e3242b"/></marker></defs>';
  var W=el.clientWidth-90;
  (D.vung||[]).forEach(function(z){var y1=k.priceToCoordinate(z.tren)+oy,y2=k.priceToCoordinate(z.duoi)+oy;
-  h+='<rect x="'+ox+'" y="'+y1+'" width="'+W+'" height="'+(y2-y1)+'" fill="'+(z.mau||'rgba(196,60,50,.18)')+'"/>';
-  h+='<text x="'+(z.trai?ox+10:ox+W-10)+'" y="'+(z.trai?y2+24:y1-8)+'" text-anchor="'+(z.trai?'start':'end')+'" font-family="Inter" font-weight="800" font-size="26" fill="'+(z.mauChu||'#7a2620')+'">'+z.ten+'</text>'});
+  h+='<rect x="'+ox+'" y="'+y1+'" width="'+W+'" height="'+(y2-y1)+'" fill="'+(z.mau||'rgba(196,60,50,.10)')+'"/>';
+  h+='<text x="'+(z.trai?ox+10:ox+W-10)+'" y="'+(z.trai?y2+24:y1-8)+'" text-anchor="'+(z.trai?'start':'end')+'" font-family="Inter" font-weight="600" font-size="19" fill="'+(z.mauChu||'#7a2620')+'">'+z.ten+'</text>'});
  (D.diem||[]).forEach(function(p){var x=ch.timeScale().timeToCoordinate(p.t)+ox,y=k.priceToCoordinate(p.g)+oy;
-  var lx=x+p.dx,ly=y+p.dy,w=p.chu.length*14.2+30;
-  h+='<line x1="'+x+'" y1="'+y+'" x2="'+lx+'" y2="'+ly+'" stroke="#1d1726" stroke-width="2.5"/>';
-  h+='<circle cx="'+x+'" cy="'+y+'" r="9" fill="#ffd23f" stroke="#1d1726" stroke-width="3.5"/>';
+  var lx=x+p.dx,ly=y+p.dy,w=p.chu.length*10.6+24;
+  h+='<line x1="'+x+'" y1="'+y+'" x2="'+lx+'" y2="'+ly+'" stroke="#1d1726" stroke-width="1.5"/>';
+  h+='<circle cx="'+x+'" cy="'+y+'" r="6" fill="#fff" stroke="#1d1726" stroke-width="2.5"/>';
   var bx=p.dx>=0?lx:lx-w;var mx=ox+el.clientWidth-70-w;if(bx>mx)bx=mx;if(bx<ox+4)bx=ox+4;
-  h+='<rect x="'+bx+'" y="'+(ly-23)+'" width="'+w+'" height="46" rx="23" fill="#1d1726"/>';
-  h+='<text x="'+(bx+15)+'" y="'+(ly+9)+'" font-family="Inter" font-weight="800" font-size="25" fill="#fff">'+p.chu+'</text>'});
+  h+='<rect x="'+bx+'" y="'+(ly-17)+'" width="'+w+'" height="34" rx="17" fill="#1d1726"/>';
+  h+='<text x="'+(bx+12)+'" y="'+(ly+7)+'" font-family="Inter" font-weight="600" font-size="18" fill="#fff">'+p.chu+'</text>'});
  var P=D.pn,Q=D.kq;
  if(P){pn.innerHTML='<h4>Góc nhìn kỹ thuật</h4>'+P.dong.map(function(r){return '<div><b>'+r[0]+'</b><span>'+r[1]+'</span></div>'}).join('');pn.style.left='706px';pn.style.top=(oy)+'px'}
  if(Q){var vc={neg:['#b42318','#fde7e5','#f6c1bc','Tiêu cực'],mid:['#8a6410','#fbf1d9','#ecd59c','Trung tính'],pos:['#0f7a43','#e3f7ea','#b7e6c8','Tích cực']}[Q.v];
@@ -79,7 +79,7 @@ setTimeout(function(){
   p.chu.forEach(function(l,i){h+='<text x="'+tx+'" y="'+(ty+10+i*40)+'" text-anchor="'+(p.dx>0?'start':'end')+'" font-family="Inter" font-weight="800" font-size="32" fill="#d1121b" stroke="#fff" stroke-width="6" paint-order="stroke">'+l+'</text>'})});
  if(D.fib){var a=D.fib[0],z=D.fib[1];[0.236,0.382,0.5,0.618].forEach(function(r){var g=z+(a-z)*r,y=k.priceToCoordinate(g)+oy;
   h+='<line x1="'+ox+'" y1="'+y+'" x2="'+(ox+el.clientWidth-80)+'" y2="'+y+'" stroke="#8a8496" stroke-width="1.2" stroke-dasharray="6 5"/>';
-  h+='<text x="'+(ox+8)+'" y="'+(y-6)+'" font-family="Inter" font-weight="700" font-size="20" fill="#4a4555">Fibo '+r.toFixed(3).replace(/0+$/,'').replace('.',',')+' · '+g.toFixed(1).replace('.',',')+'</text>'})}
+  h+='<text x="'+(ox+8)+'" y="'+(y-6)+'" font-family="Inter" font-weight="600" font-size="17" fill="#6f6a7a">Fibo '+r.toFixed(3).replace(/0+$/,'').replace('.',',')+' · '+g.toFixed(1).replace('.',',')+'</text>'})}
  if(D.emo){h+='<text x="'+D.emo[1]+'" y="'+D.emo[2]+'" font-size="170" font-family="Noto Color Emoji">'+D.emo[0]+'</text>'}
  ov.innerHTML=h;document.title='xong'},500);
 </script></body></html>
